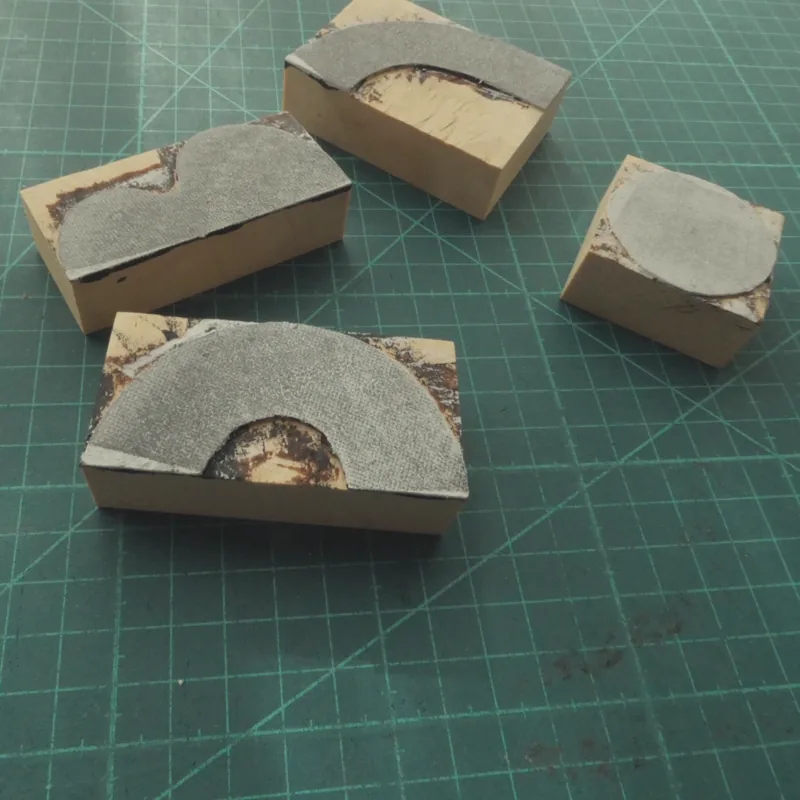
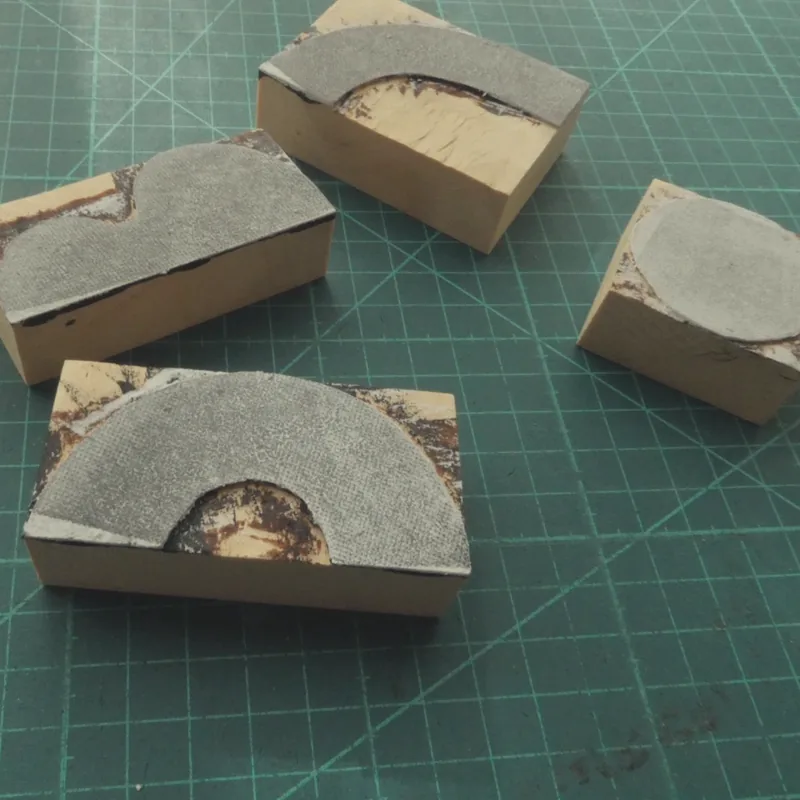
WOODPRINT：真ん中の写真を上寄りに切り抜き直す
Claude-Session: https://claude.ai/code/session_01RH5cythh1fYRs7FUTgofhc

diff --git a/index.html b/index.html
@@ -155,7 +155,7 @@
       </div>
       <ul class="woodprint-photos">
         <li class="reveal"><img src="assets/images/woodprint-hats.webp" alt="山の形の木版柄を刷った、ベージュとこげ茶の帆布ハットを重ねたところ" width="800" height="800" loading="lazy"></li>
-        <li class="reveal d1"><img src="assets/images/woodprint-blocks.webp" alt="作家が自作した木の版。山や波、丸の形が彫られている" width="800" height="800" loading="lazy"></li>
+        <li class="reveal d1"><img src="assets/images/woodprint-blocks.webp?v=20261118c" alt="作家が自作した木の版。山や波、丸の形が彫られている" width="800" height="800" loading="lazy"></li>
         <li class="reveal d2"><img src="assets/images/woodprint-black.webp" alt="つばに白い木版柄を刷った、黒い帆布ハット" width="800" height="800" loading="lazy"></li>
       </ul>
       <div class="woodprint-text reveal">
